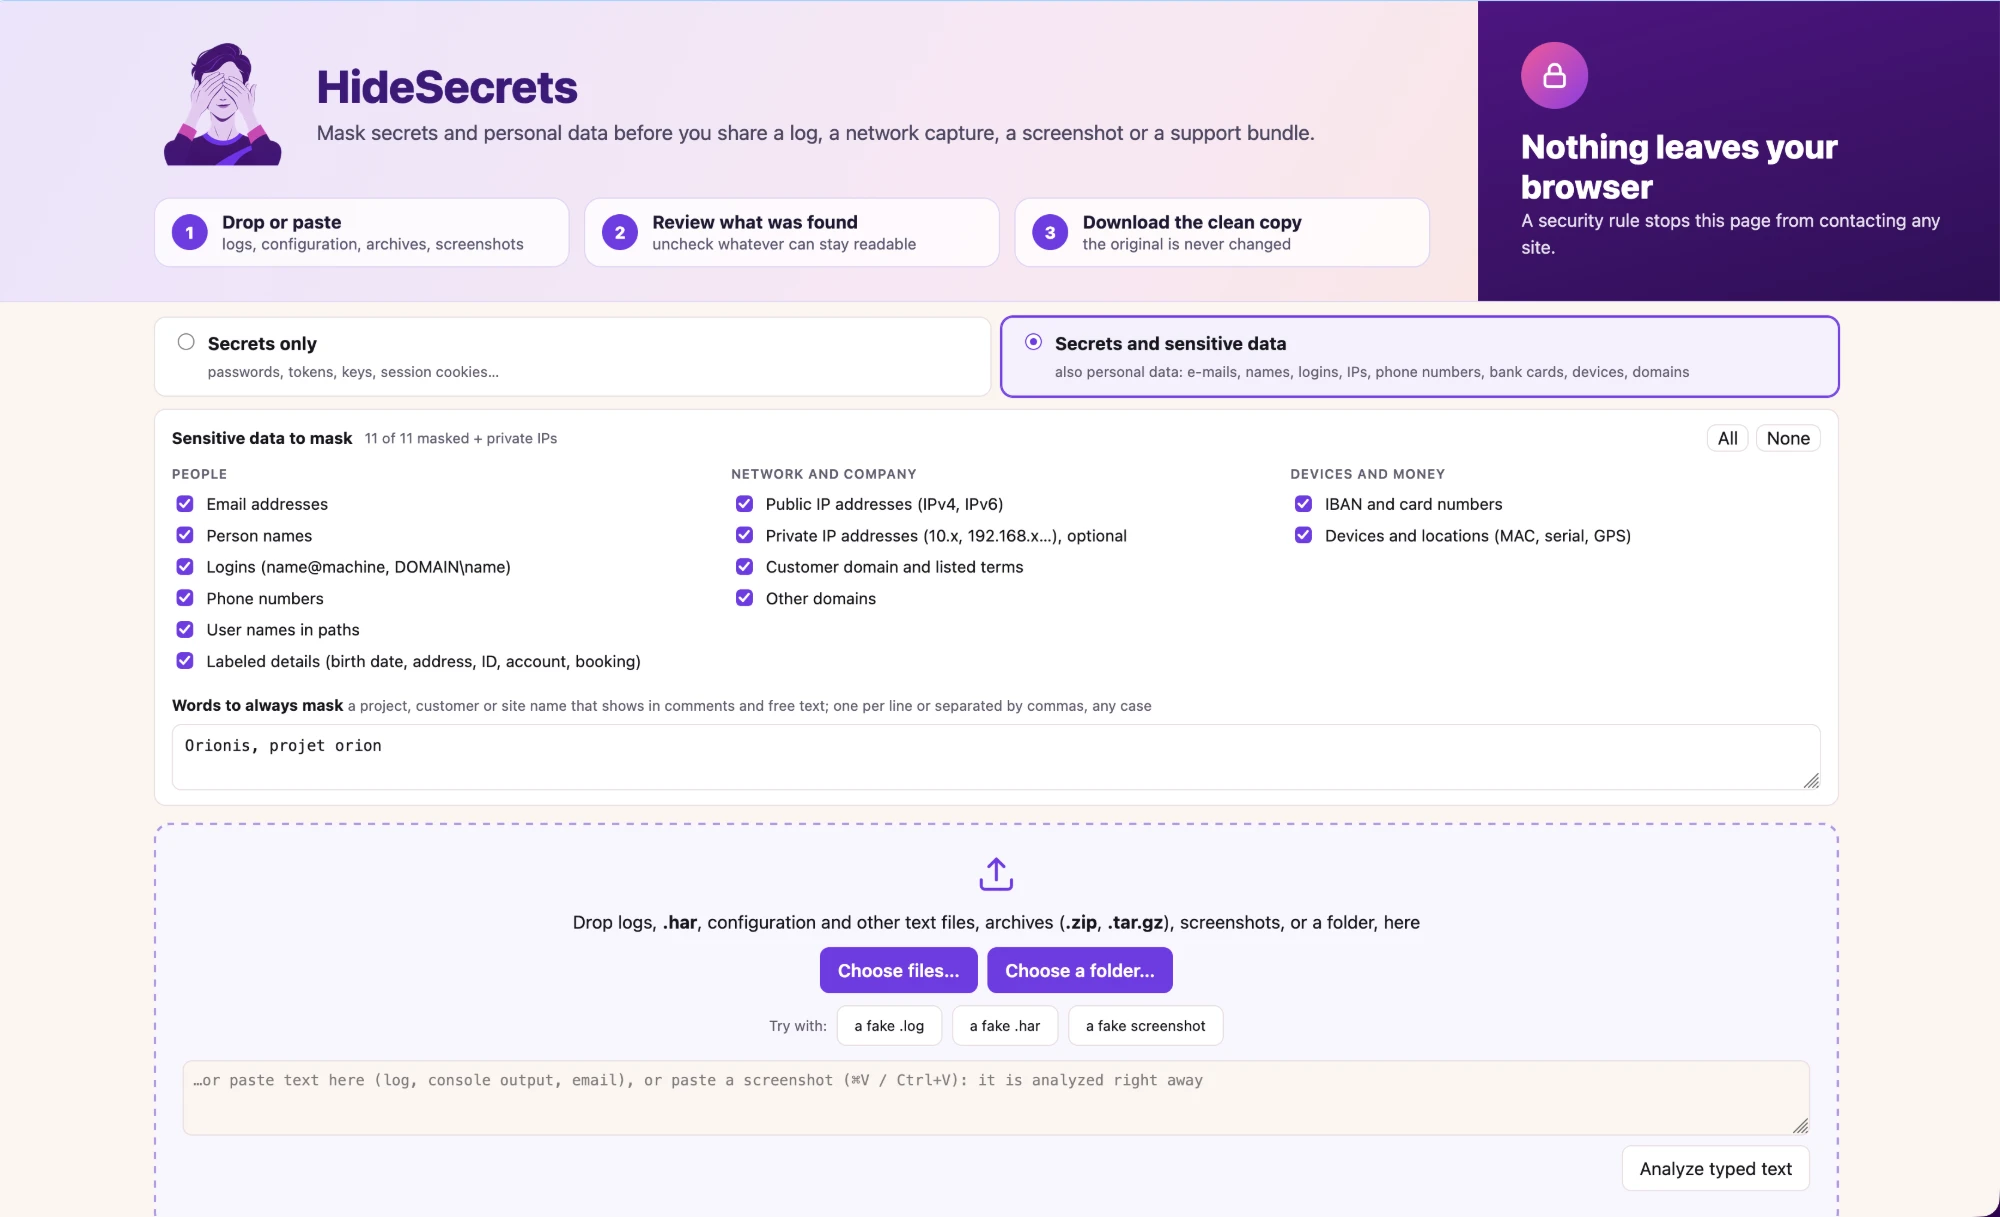
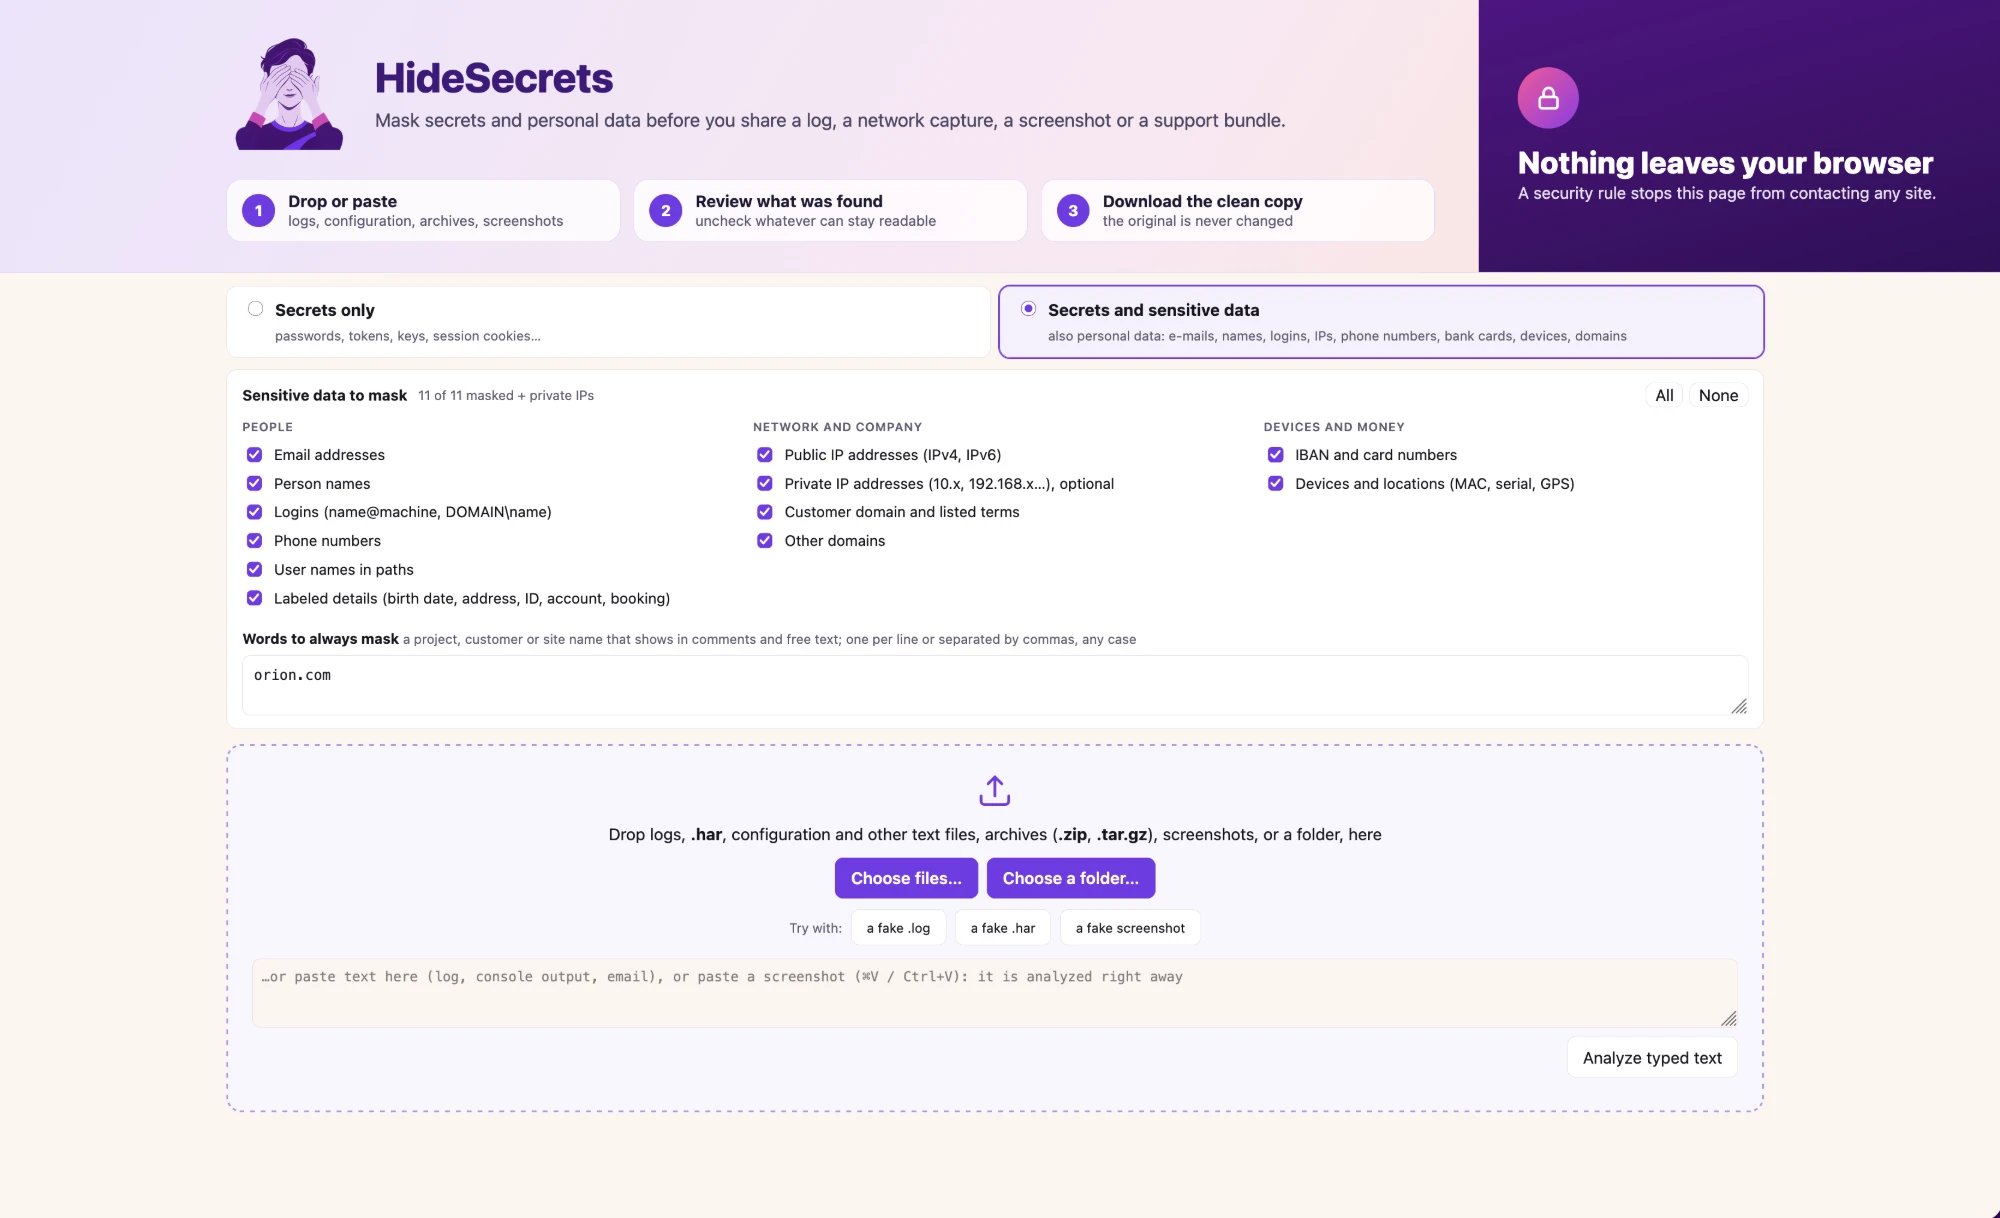
README: new screenshots (home, dense log, image, before and after)

diff --git a/README.md b/README.md
@@ -10,7 +10,7 @@ HideSecrets finds these values, replaces them with readable placeholders (`[SECR
 
 ## What it looks like
 
-The home page: choose what to mask and which categories of sensitive data, then drop files or an archive, paste text, or paste a screenshot.
+The home page: choose what to mask and which categories of sensitive data, then drop files or an archive, paste text, or paste a screenshot. The box **Words to always mask** takes a project, customer or site name that nothing else can guess.
 
 ![The home page: masking level, categories of sensitive data and the drop zone](docs/screenshot-home.webp)
 
@@ -18,17 +18,13 @@ A log file: each detected value is highlighted in the text and listed on the rig
 
 ![A log file under review: detected values highlighted in the text and listed on the right](docs/screenshot-text.webp)
 
-A screenshot of an invented support session: secrets, names, contact details, bank and card numbers, devices and paths are blacked out, and the detections are listed on the right.
+A screenshot of an invented support session: secrets, names, contact details, bank and card numbers, devices and paths are blacked out, and the detections are listed on the right. The file list on the left keeps every file of the batch one click away.
 
 ![A screenshot under review: masked values on the image, detections listed on the right](docs/screenshot-image.webp)
 
-A batch of files and images: the file list with its search box (matches are highlighted), the reading time, and the current image on the right.
+Before and after, on the same invented screenshot: the original on the left, the version to share on the right.
 
-![A batch of 26 files and screenshots: the file list, its search box and an image under review](docs/screenshot-batch.webp)
-
-A word to always mask: type a project, customer or site name in **Words to always mask**, and every occurrence is masked, whatever the other categories do (here the people categories are off, the listed domain is still masked).
-
-![Words to always mask: a listed domain masked in every occurrence while the people categories are off](docs/screenshot-terms.webp)
+![The same invented screenshot before and after masking](docs/screenshot-before-after.webp)
 
 All the screenshots use invented data.
 
